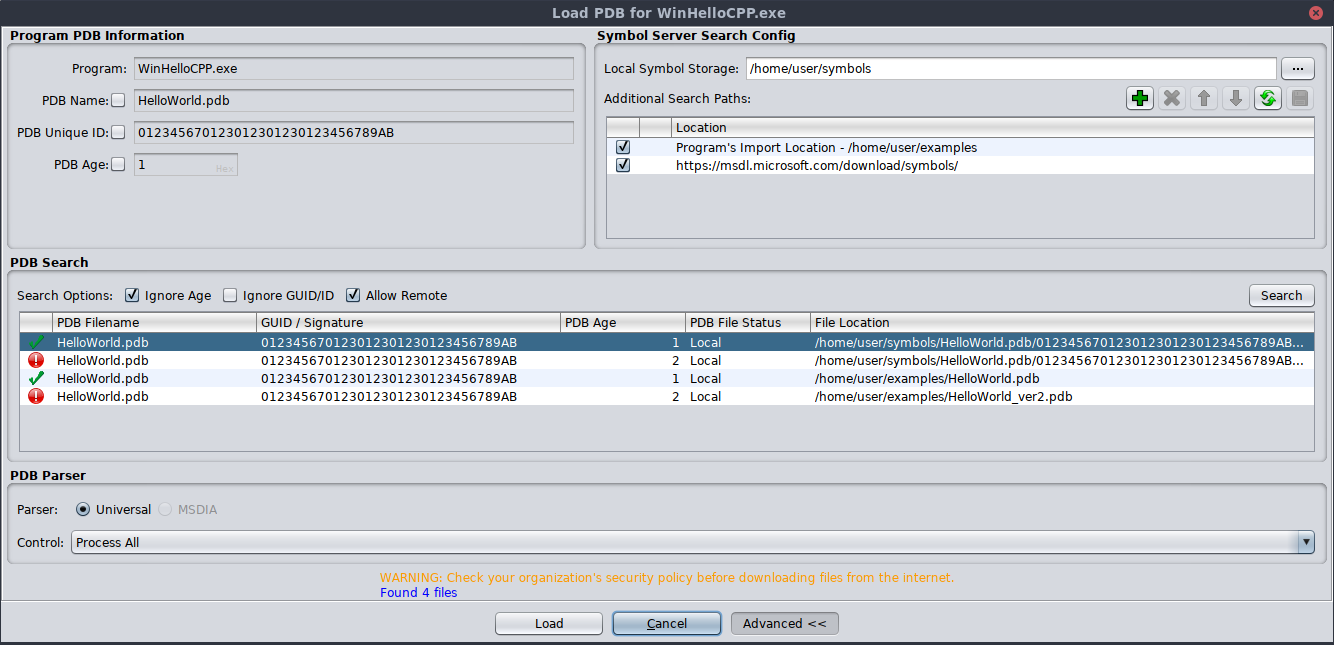
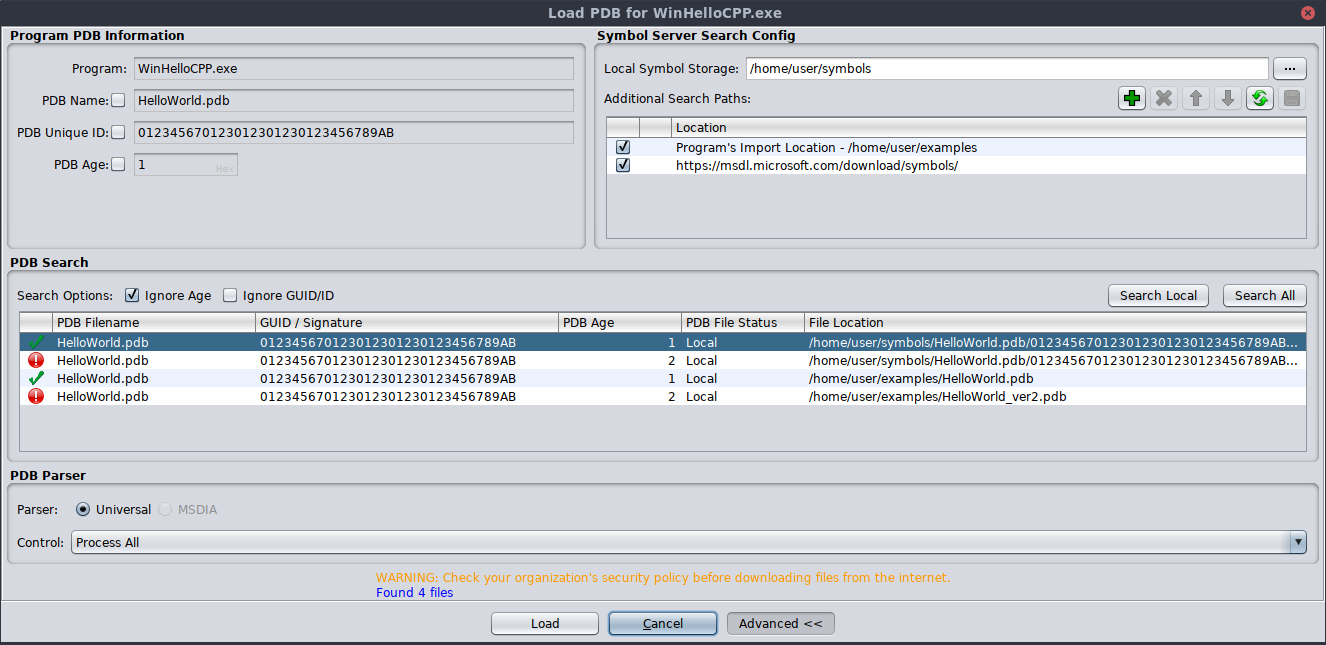
GP-42 changed remote searching to its own button

diff --git a/Ghidra/Features/PDB/src/main/help/help/topics/Pdb/LoadPDBNew.html b/Ghidra/Features/PDB/src/main/help/help/topics/Pdb/LoadPDBNew.html
@@ -33,7 +33,7 @@
 					<LI><CODE><FONT COLOR="BLUE">myprogram.pdb</FONT>/<FONT COLOR="RED">012345670123012301230123456789AB</FONT><FONT COLOR="GREEN">1</FONT>/<FONT COLOR="BLUE">myprogram.pdb</FONT></CODE>.</LI>
 					<LI><CODE><FONT COLOR="BLUE">myprogram.pdb</FONT></CODE> is the name of the file and the name of the initial subdirectory off the root of the server.</LI>
 					<LI><CODE><FONT COLOR="RED">012345670123012301230123456789AB</FONT></CODE> is the 32 character hexadecimal value (made up for this example) of the GUID 
-					"012345678-0123-0123-0123-0123456789ABC" of the PDB file.</LI>
+					"012345678-0123-0123-0123-0123456789AB" of the PDB file.</LI>
 					<UL><LI>This value might instead be a 8 character hexadecimal value of the ID of the symbol file if it was created by an older version of the tool chain.</LI></UL>
 					<LI><CODE><FONT COLOR="GREEN">1</FONT></CODE> is the hexadecimal value of the 'age' (build number) of the PDB file. Note: most PDB files will have an age value of 1.</LI>
 				</UL>

diff --git a/Ghidra/Features/PDB/src/main/java/pdb/symbolserver/ui/LoadPdbDialog.java b/Ghidra/Features/PDB/src/main/java/pdb/symbolserver/ui/LoadPdbDialog.java
@@ -16,7 +16,8 @@
 package pdb.symbolserver.ui;
 
 import java.awt.*;
-import java.awt.event.*;
+import java.awt.event.ActionListener;
+import java.awt.event.MouseEvent;
 import java.io.File;
 import java.io.IOException;
 import java.util.ArrayList;
@@ -104,7 +105,7 @@ public class LoadPdbDialog extends DialogComponentProvider {
 	private SymbolFileInfo programSymbolFileInfo;
 
 	private List<Supplier<StatusText>> statusTextSuppliers = new ArrayList<>();
-	private boolean hasPerformedSearch;
+	private Set<FindOption> lastSearchOptions;
 	private boolean searchCanceled;
 
 	private Program program;
@@ -181,7 +182,7 @@ public class LoadPdbDialog extends DialogComponentProvider {
 					symbolServerService.getLocalSymbolFileLocation(results.get(0), monitor);
 				File symbolFile = getLocalSymbolFile(symbolFileLocation);
 				Swing.runLater(() -> {
-					setSearchResults(results);
+					setSearchResults(results, null);
 					setPdbLocationValue(symbolFileLocation, symbolFile);
 					setSelectedPdbFile(symbolFileLocation);
 					selectRowByLocation(symbolFileLocation);
@@ -247,8 +248,8 @@ public class LoadPdbDialog extends DialogComponentProvider {
 	 * 
 	 * @param results list of {@link SymbolFileLocation}s to add to results
 	 */
-	public void setSearchResults(List<SymbolFileLocation> results) {
-		hasPerformedSearch = true;
+	public void setSearchResults(List<SymbolFileLocation> results, Set<FindOption> findOptions) {
+		lastSearchOptions = findOptions;
 		symbolFilePanel.getTableModel().setSearchResults(programSymbolFileInfo, results);
 	}
 
@@ -320,7 +321,7 @@ public class LoadPdbDialog extends DialogComponentProvider {
 		return SymbolFileInfo.fromValues(pdbPath, uid, age);
 	}
 
-	private void searchForPdbs(ActionEvent e) {
+	private void searchForPdbs(boolean allowRemote) {
 		if (symbolServerService == null || !symbolServerService.isValid()) {
 			return;
 		}
@@ -336,13 +337,16 @@ public class LoadPdbDialog extends DialogComponentProvider {
 			return;
 		}
 		Set<FindOption> findOptions = symbolFilePanel.getFindOptions();
+		if (allowRemote) {
+			findOptions.add(FindOption.ALLOW_REMOTE);
+		}
 		executeMonitoredRunnable("Search for PDBs", true, true, 0, monitor -> {
 			try {
 				searchCanceled = false;
 				List<SymbolFileLocation> results =
 					symbolServerService.find(symbolFileInfo, findOptions, monitor);
 				Swing.runLater(() -> {
-					setSearchResults(results);
+					setSearchResults(results, findOptions);
 					if (results.size() == 1) {
 						selectRowByLocation(results.get(0));
 					}
@@ -366,7 +370,7 @@ public class LoadPdbDialog extends DialogComponentProvider {
 		buildParserOptionsPanel();
 		setHelpLocation(new HelpLocation(PdbPlugin.PDB_PLUGIN_HELP_TOPIC, "Load PDB File"));
 
-		addStatusTextSupplier(() -> hasPerformedSearch && advancedToggleButton.isSelected()
+		addStatusTextSupplier(() -> lastSearchOptions != null && advancedToggleButton.isSelected()
 				? symbolServerConfigPanel.getSymbolServerWarnings()
 				: null);
 		addStatusTextSupplier(this::getSelectedPdbNoticeText);
@@ -647,11 +651,10 @@ public class LoadPdbDialog extends DialogComponentProvider {
 	private StatusText getAllowRemoteWarning() {
 		int remoteSymbolServerCount =
 			symbolServerService != null ? symbolServerService.getRemoteSymbolServerCount() : 0;
-		Set<FindOption> findOptions = symbolFilePanel.getFindOptions();
-		return hasPerformedSearch && advancedToggleButton.isSelected() &&
-			remoteSymbolServerCount != 0 && !findOptions.contains(FindOption.ALLOW_REMOTE)
+		return lastSearchOptions != null && advancedToggleButton.isSelected() &&
+			remoteSymbolServerCount != 0 && !lastSearchOptions.contains(FindOption.ALLOW_REMOTE)
 					? new StatusText(
-						"Remote servers were excluded.  Select \"Allow Remote\" checkbox to search remote servers.",
+						"Remote servers were excluded.  Use \"Search All\" button to also search remote servers.",
 						MessageType.INFO, false)
 					: null;
 	}
@@ -661,7 +664,7 @@ public class LoadPdbDialog extends DialogComponentProvider {
 			if (searchCanceled) {
 				return new StatusText("Search canceled", MessageType.INFO, false);
 			}
-			if (hasPerformedSearch) {
+			if (lastSearchOptions != null) {
 				int foundCount = symbolFilePanel.getTableModel().getModelData().size();
 				return new StatusText(
 					"Found " + foundCount + " file" + (foundCount != 1 ? "s" : ""),
@@ -751,11 +754,10 @@ public class LoadPdbDialog extends DialogComponentProvider {
 					SameDirSymbolStore.createManuallySelectedSymbolFileLocation(file,
 						pdbSymbolFileInfo);
 				Swing.runLater(() -> {
-					setSearchResults(List.of(symbolFileLocation));
+					setSearchResults(List.of(symbolFileLocation), null);
 					setSelectedPdbFile(symbolFileLocation);
 					setPdbLocationValue(symbolFileLocation, file);
 					selectRowByLocation(symbolFileLocation);
-					hasPerformedSearch = false;
 					updateStatusText();
 					updateButtonEnablement();
 					updateParserOptionEnablement(true);

diff --git a/Ghidra/Features/PDB/src/main/java/pdb/symbolserver/ui/SymbolFilePanel.java b/Ghidra/Features/PDB/src/main/java/pdb/symbolserver/ui/SymbolFilePanel.java
@@ -15,12 +15,10 @@
  */
 package pdb.symbolserver.ui;
 
-import java.util.EnumSet;
-import java.util.Set;
-
 import java.awt.BorderLayout;
 import java.awt.Dimension;
-import java.awt.event.ActionListener;
+import java.util.EnumSet;
+import java.util.Set;
 
 import javax.swing.*;
 import javax.swing.table.TableColumn;
@@ -39,6 +37,9 @@ import pdb.symbolserver.FindOption;
  * Also allows the user to tweak search options.
  */
 class SymbolFilePanel extends JPanel {
+	interface SearchCallback {
+		void searchForPdbs(boolean allowRemote);
+	}
 	static final String SEARCH_OPTIONS_HELP_ANCHOR = "PDB_Search_Search_Options";
 	private SymbolFileTableModel tableModel;
 	private GhidraTable table;
@@ -46,17 +47,18 @@ class SymbolFilePanel extends JPanel {
 	private JPanel tablePanel;
 	private JPanel welcomePanel;
 
-	private JButton searchButton;
-	private GCheckBox allowRemote;
+	private JButton searchLocalButton;
+	private JButton searchAllButton;
 	private GCheckBox ignorePdbUid;
 	private GCheckBox ignorePdbAge;
 
-	SymbolFilePanel(ActionListener searchButtonActionListener) {
+	SymbolFilePanel(SearchCallback searchButtonsCallback) {
 		super(new BorderLayout());
 
 		build();
 		setEnablement(false);
-		searchButton.addActionListener(searchButtonActionListener);
+		searchLocalButton.addActionListener(e -> searchButtonsCallback.searchForPdbs(false));
+		searchAllButton.addActionListener(e -> searchButtonsCallback.searchForPdbs(true));
 	}
 
 	SymbolFileTableModel getTableModel() {
@@ -69,9 +71,6 @@ class SymbolFilePanel extends JPanel {
 
 	Set<FindOption> getFindOptions() {
 		Set<FindOption> findOptions = EnumSet.noneOf(FindOption.class);
-		if (allowRemote.isSelected()) {
-			findOptions.add(FindOption.ALLOW_REMOTE);
-		}
 		if (ignorePdbAge.isSelected()) {
 			findOptions.add(FindOption.ANY_AGE);
 		}
@@ -82,13 +81,13 @@ class SymbolFilePanel extends JPanel {
 	}
 
 	void setFindOptions(Set<FindOption> findOptions) {
-		allowRemote.setSelected(findOptions.contains(FindOption.ALLOW_REMOTE));
 		ignorePdbAge.setSelected(findOptions.contains(FindOption.ANY_AGE));
 		ignorePdbUid.setSelected(findOptions.contains(FindOption.ANY_ID));
 	}
 
 	void setEnablement(boolean hasSymbolServerService) {
-		searchButton.setEnabled(hasSymbolServerService);
+		searchLocalButton.setEnabled(hasSymbolServerService);
+		searchAllButton.setEnabled(hasSymbolServerService);
 
 		if (welcomePanel != null && hasSymbolServerService) {
 			remove(welcomePanel);
@@ -149,13 +148,15 @@ class SymbolFilePanel extends JPanel {
 	}
 
 	private JPanel buildButtonPanel() {
-		searchButton = new JButton("Search");
-
-		allowRemote = new GCheckBox("Allow Remote");
-		allowRemote.setToolTipText("Allow searching remote symbol servers.");
+		searchLocalButton = new JButton("Search Local");
+		searchLocalButton.setToolTipText("Search local symbol servers only.");
+		searchAllButton = new JButton("Search All");
+		searchAllButton.setToolTipText("Search local and remote symbol servers.");
 
 		ignorePdbUid = new GCheckBox("Ignore GUID/ID");
-		ignorePdbUid.setToolTipText("Find any PDB with same name (local locations only).");
+		ignorePdbUid.setToolTipText(
+			"Find any PDB with same name (local locations only).  Age ignored also.");
+		ignorePdbUid.addChangeListener(l -> updateSearchOptionEnablement());
 
 		ignorePdbAge = new GCheckBox("Ignore Age");
 		ignorePdbAge.setToolTipText("Find PDB with any age value (local locations only).");
@@ -168,15 +169,19 @@ class SymbolFilePanel extends JPanel {
 		panel.add(ignorePdbAge);
 		panel.add(Box.createHorizontalStrut(10));
 		panel.add(ignorePdbUid);
-		panel.add(Box.createHorizontalStrut(10));
-		panel.add(allowRemote);
 		panel.add(Box.createHorizontalGlue());
-		panel.add(searchButton);
+		panel.add(searchLocalButton);
+		panel.add(Box.createHorizontalStrut(10));
+		panel.add(searchAllButton);
 
 		DockingWindowManager.getHelpService()
 				.registerHelp(panel,
 					new HelpLocation(PdbPlugin.PDB_PLUGIN_HELP_TOPIC, SEARCH_OPTIONS_HELP_ANCHOR));
 
 		return panel;
+	}
+
+	private void updateSearchOptionEnablement() {
+		ignorePdbAge.setEnabled(!ignorePdbUid.isSelected());
 	}
 }

diff --git a/Ghidra/Test/IntegrationTest/src/screen/java/help/screenshot/PdbScreenShots.java b/Ghidra/Test/IntegrationTest/src/screen/java/help/screenshot/PdbScreenShots.java
@@ -15,11 +15,11 @@
  */
 package help.screenshot;
 
-import java.util.List;
-
 import java.io.File;
 import java.io.IOException;
 import java.net.URI;
+import java.util.List;
+import java.util.Set;
 
 import org.apache.commons.io.FilenameUtils;
 import org.junit.*;
@@ -143,12 +143,12 @@ public class PdbScreenShots extends GhidraScreenShotGenerator {
 				SymbolFileInfo.fromValues("HelloWorld.pdb", GUID1_STR, 1)),
 			new SymbolFileLocation("HelloWorld_ver2.pdb", sameDirSymbolStoreWithFakePath,
 				SymbolFileInfo.fromValues("HelloWorld.pdb", GUID1_STR, 2)));
+		Set<FindOption> findOptions = FindOption.of(FindOption.ALLOW_REMOTE, FindOption.ANY_AGE);
 		runSwing(() -> {
-			loadPdbDialog
-					.setSearchOptions(FindOption.of(FindOption.ALLOW_REMOTE, FindOption.ANY_AGE));
+			loadPdbDialog.setSearchOptions(findOptions);
 			loadPdbDialog.setSymbolServers(symbolServers);
 			loadPdbDialog.setSymbolStorageDirectoryTextOnly("/home/user/symbols");
-			loadPdbDialog.setSearchResults(symbolFileLocations);
+			loadPdbDialog.setSearchResults(symbolFileLocations, findOptions);
 			loadPdbDialog.selectRowByLocation(symbolFileLocations.get(0));
 		});
 		waitForSwing();
